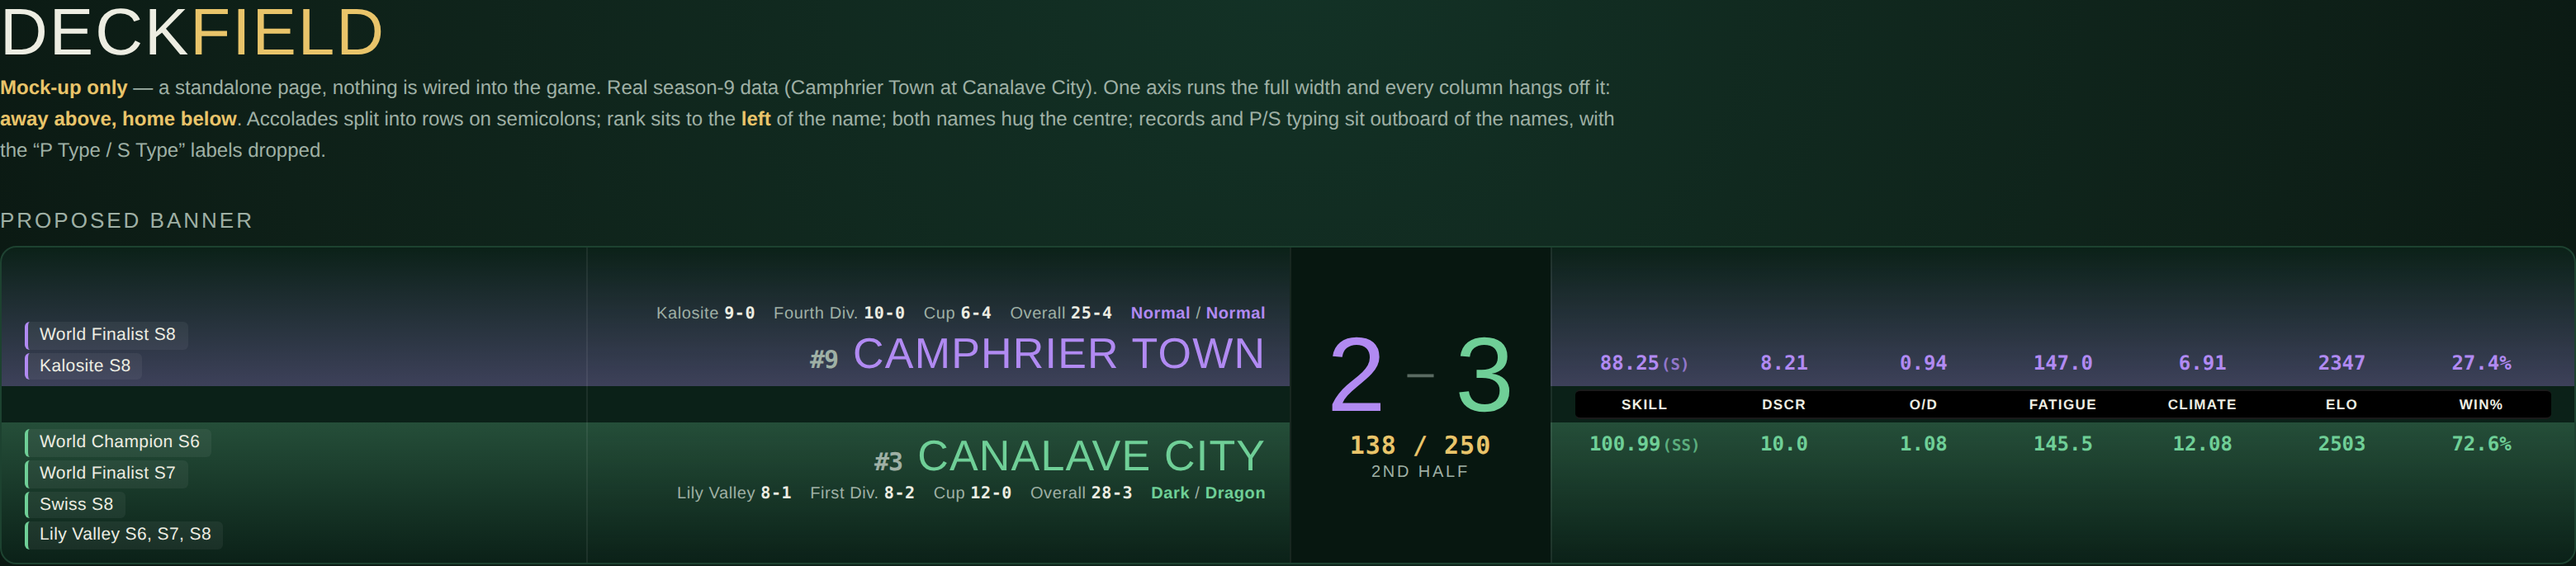
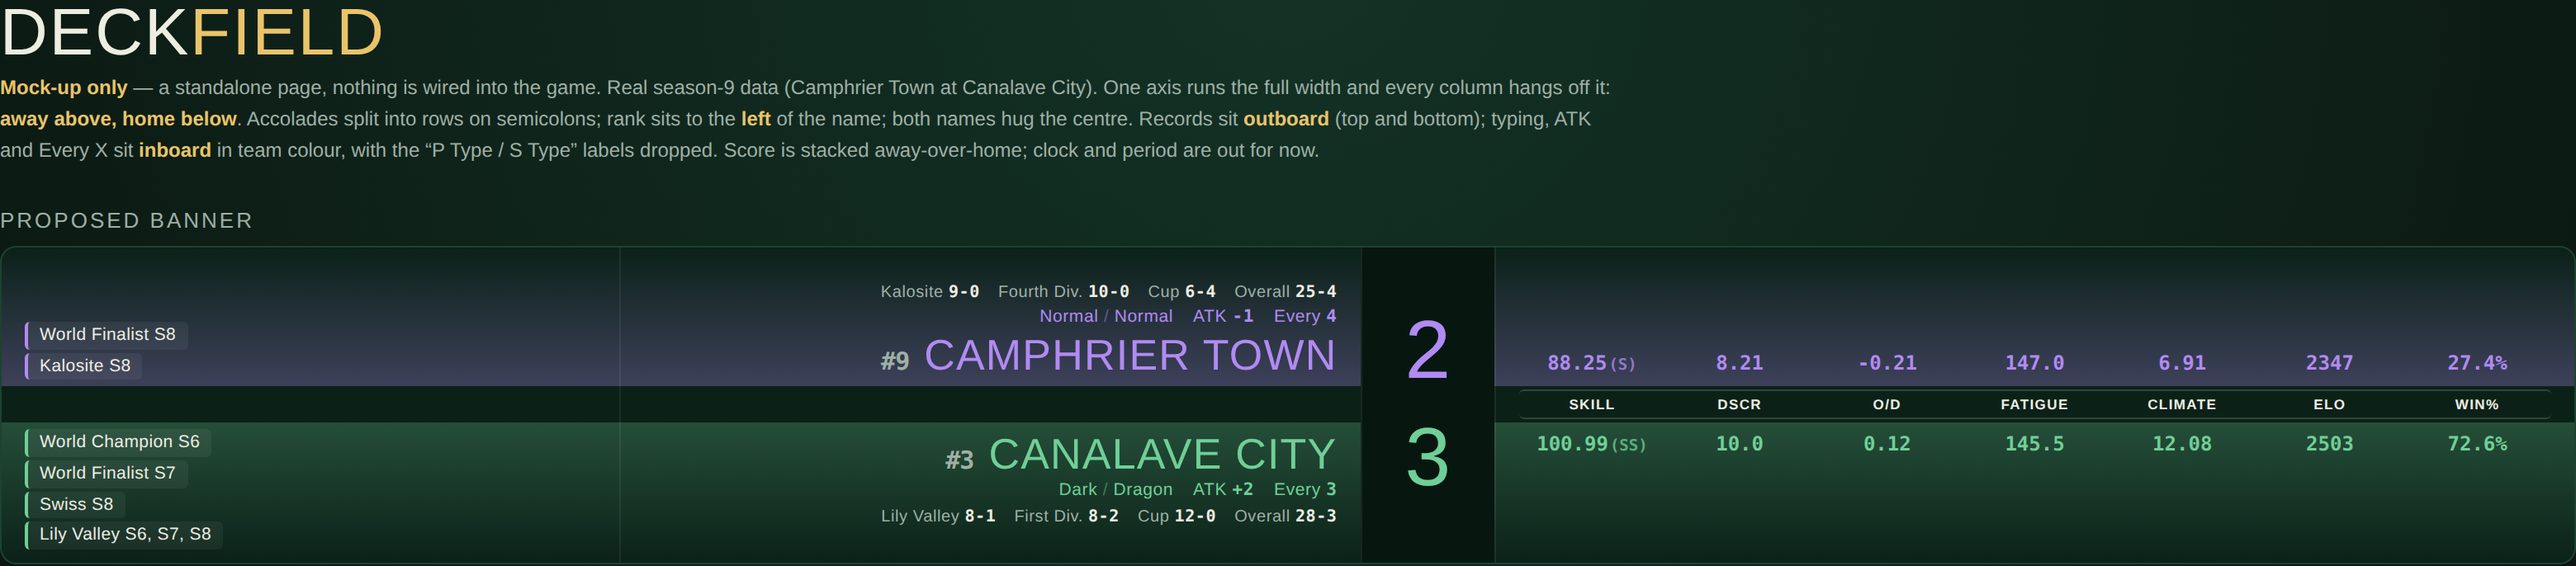
Scoreboard mock-up: recolour the label strip, rebalance the name column
Three revisions to the banner mock-up. Still standalone; nothing in
deckfield.html is touched.

- The stat labels drop the solid black for the middle section's own panel
  colour. The hairlines above and below are kept and strengthened slightly so
  the strip still reads as the axis rather than dissolving into the row.
- The name column now uses its spare room as three bands per half: records
  outboard (top for away, bottom for home), then typing, ATK modifier and
  Every X inboard in the team's own colour, with the names still hugging the
  axis.
- The score stacks away-over-home on the axis like every other column, and
  the clock and period come out for now.

ATK and Every X are derived the way the game derives them rather than
invented: O/D = (own PF - opp PA)/100 gives 0.12 home and -0.21 away from the
real PF/PA, which lands on bands 7 and 4, so ATK +2 / -1 and Every 3 / Every
4. The earlier O/D figures in the mock-up were placeholders and are corrected
to match.

Verified in a browser at 420-1920px: nothing clipped or truncated, axis stays
dead centre, away score sits above it and home below, and the label strip
keeps near-white text on the dark panel.

Claude-Session: https://claude.ai/code/session_0181zYP8HyHr8A6FaG9fZGxz

Changed region(s): [[0.2487, 0.4898, 0.9949, 0.9184], [0.0, 0.1837, 0.6218, 0.2755]]

diff --git a/scoreboard_mockup.html b/scoreboard_mockup.html
@@ -84,7 +84,7 @@
   .acc span{color:var(--chalk);}
   .acc-empty{font-size:10.5px;color:var(--chalk-dim);font-style:italic;opacity:0.5;}
 
-  /* ---------- 2. Records + typing + name ---------- */
+  /* ---------- 2. Records (outboard) / typing+ATK+EveryX (inboard) / name ---------- */
   .id-meta{
     display:flex;flex-wrap:wrap;gap:2px 11px;justify-content:flex-end;
     font-size:10px;color:var(--chalk-dim);letter-spacing:0.3px;line-height:1.5;
@@ -95,7 +95,17 @@
   .cell.away .id-meta .types i{color:var(--away-bright);}
   .cell.home .id-meta .types i{color:var(--home-bright);}
 
-  .id-name{display:flex;align-items:baseline;justify-content:flex-end;gap:9px;margin:3px 0;}
+  /* Second band, between the records and the name: typing, ATK and Every X,
+     all in the team's own colour. */
+  .id-mid{
+    display:flex;flex-wrap:wrap;gap:2px 12px;justify-content:flex-end;
+    font-size:10.5px;line-height:1.5;letter-spacing:0.3px;white-space:nowrap;
+  }
+  .id-mid .g{font-family:'JetBrains Mono',monospace;font-weight:600;}
+  .cell.away .id-mid{color:var(--away-bright);}
+  .cell.home .id-mid{color:var(--home-bright);}
+  .id-mid .sep{opacity:0.45;}
+  .id-name{display:flex;align-items:baseline;justify-content:flex-end;gap:9px;margin:2px 0;}
   .id-rank{
     font-family:'JetBrains Mono',monospace;font-weight:700;font-size:15px;
     color:var(--chalk-dim);letter-spacing:-0.5px;flex:0 0 auto;
@@ -108,28 +118,25 @@
   .cell.away .id-team{color:var(--away-bright);}
   .cell.home .id-team{color:var(--home-bright);}
 
-  /* ---------- 3. Score (spans all three rows) ---------- */
-  .score-col{
-    grid-column:3;grid-row:1 / 4;display:flex;flex-direction:column;
-    align-items:center;justify-content:center;
-    padding:10px 22px;background:rgba(0,0,0,0.30);
+  /* ---------- 3. Score ---------- */
+  /* Away score above the axis, home below, like every other column. Clock and
+     period are out for now, per instruction. */
+  .score-cell{
+    grid-column:3;display:flex;align-items:center;justify-content:center;
+    padding:0 26px;background:rgba(0,0,0,0.30);min-width:0;
   }
-  .score-nums{
-    display:flex;align-items:center;gap:13px;
-    font-family:'Anton',sans-serif;line-height:0.9;font-size:clamp(38px,4.6vw,64px);
+  .score-cell.away{align-items:flex-end;padding-top:8px;}
+  .score-cell.home{align-items:flex-start;padding-bottom:8px;}
+  .score-num{
+    font-family:'Anton',sans-serif;line-height:0.86;
+    font-size:clamp(34px,3.6vw,50px);
   }
-  .score-nums .a{color:var(--away-bright);}
-  .score-nums .h{color:var(--home-bright);}
-  .score-nums .dash{color:var(--chalk-dim);font-size:0.45em;opacity:0.55;}
-  .score-clock{
-    font-family:'JetBrains Mono',monospace;font-size:15px;font-weight:600;
-    color:var(--gold);margin-top:5px;letter-spacing:0.5px;
-  }
-  .score-period{font-size:10px;text-transform:uppercase;letter-spacing:1.4px;color:var(--chalk-dim);margin-top:2px;}
+  .score-cell.away .score-num{color:var(--away-bright);}
+  .score-cell.home .score-num{color:var(--home-bright);}
 
   /* ---------- 4. Stat strip ---------- */
-  /* Seven columns. The labels form the black middle line itself, with the
-     away value directly above and the home value directly below. */
+  /* Seven columns. The labels form the middle line itself, with the away
+     value directly above and the home value directly below. */
   .stats-away,.stats-home,.stats-axis{
     display:grid;grid-template-columns:repeat(7,1fr);text-align:center;
   }
@@ -143,11 +150,13 @@
   .stats-away .stat-v{color:var(--away-bright);}
   .stats-home .stat-v{color:var(--home-bright);}
   .stat-k{
-    background:#000;color:var(--chalk);
+    /* Was solid black; now the middle section's own panel colour, with the
+       hairlines kept so it still reads as the axis rather than dissolving. */
+    background:var(--panel);color:var(--chalk);
     font-size:8.5px;font-weight:700;letter-spacing:0.7px;text-transform:uppercase;
     padding:3px 2px;
-    border-top:1px solid rgba(255,255,255,0.10);
-    border-bottom:1px solid rgba(255,255,255,0.10);
+    border-top:1px solid rgba(255,255,255,0.16);
+    border-bottom:1px solid rgba(255,255,255,0.16);
   }
   .stats-axis{margin:2px 0;}
   .stat-k:first-child{border-radius:3px 0 0 3px;}
@@ -168,8 +177,9 @@
     <b>Mock-up only</b> &mdash; a standalone page, nothing is wired into the game. Real season-9 data
     (Camphrier Town at Canalave City). One axis runs the full width and every column hangs off it:
     <b>away above, home below</b>. Accolades split into rows on semicolons; rank sits to the
-    <b>left</b> of the name; both names hug the centre; records and P/S typing sit outboard of the
-    names, with the &ldquo;P Type / S Type&rdquo; labels dropped.
+    <b>left</b> of the name; both names hug the centre. Records sit <b>outboard</b> (top and bottom);
+    typing, ATK and Every X sit <b>inboard</b> in team colour, with the &ldquo;P Type / S Type&rdquo;
+    labels dropped. Score is stacked away-over-home; clock and period are out for now.
   </p>
 
   <div class="section-label">Proposed banner</div>
@@ -182,22 +192,18 @@
     <!-- 2 ─ RECORDS + NAME -->
     <div class="cell away colsep c2 r1">
       <div class="id-meta" id="metaAway"></div>
+      <div class="id-mid" id="midAway"></div>
       <div class="id-name"><span class="id-rank" id="rankAway"></span><span class="id-team" id="nameAway"></span></div>
     </div>
-    <!-- 3 ─ SCORE (spans all three rows) -->
-    <div class="score-col colsep">
-      <div class="score-nums">
-        <span class="a" id="scoreAway">2</span><span class="dash">&ndash;</span><span class="h" id="scoreHome">3</span>
-      </div>
-      <div class="score-clock" id="clock">138 / 250</div>
-      <div class="score-period" id="period">2nd Half</div>
-    </div>
+    <!-- 3 ─ SCORE, away half -->
+    <div class="score-cell away colsep r1"><div class="score-num" id="scoreAway">2</div></div>
     <!-- 4 ─ STATS, away half -->
     <div class="cell away colsep stat-pad c4 r1"><div class="stats-away" id="statsAway"></div></div>
 
     <!-- ── the axis row ── -->
     <div class="axis-cell c1"></div>
     <div class="axis-cell colsep c2"></div>
+    <div class="axis-cell colsep c3 score-cell"></div>
     <div class="axis-cell colsep stat-pad c4"><div class="stats-axis" id="statsAxis"></div></div>
 
     <!-- 1 ─ ACCOLADES -->
@@ -205,8 +211,11 @@
     <!-- 2 ─ RECORDS + NAME -->
     <div class="cell home colsep c2 r3">
       <div class="id-name"><span class="id-rank" id="rankHome"></span><span class="id-team" id="nameHome"></span></div>
+      <div class="id-mid" id="midHome"></div>
       <div class="id-meta" id="metaHome"></div>
     </div>
+    <!-- 3 ─ SCORE, home half -->
+    <div class="score-cell home colsep r3"><div class="score-num" id="scoreHome">3</div></div>
     <!-- 4 ─ STATS, home half -->
     <div class="cell home colsep stat-pad c4 r3"><div class="stats-home" id="statsHome"></div></div>
 
@@ -222,16 +231,16 @@
     accolades:'World Finalist S8; Kalosite S8',
     regionRecord:'9-0', leagueRecord:'10-0', cupRecord:'6-4', overallRecord:'25-4',
     primary:'Normal', secondary:'Normal',
-    skill:'88.25', grade:'S', dscr:'8.21', offdef:'0.94', fatigue:'147.0', climate:'6.91',
-    elo:'2347', winPct:'27.4%'
+    skill:'88.25', grade:'S', dscr:'8.21', offdef:'-0.21', fatigue:'147.0', climate:'6.91',
+    elo:'2347', winPct:'27.4%', atk:'-1', everyX:'4'
   };
   const HOME = {
     name:'Canalave City', rank:3, region:'Lily Valley', division:'First Div.',
     accolades:'World Champion S6; World Finalist S7; Swiss S8; Lily Valley S6, S7, S8',
     regionRecord:'8-1', leagueRecord:'8-2', cupRecord:'12-0', overallRecord:'28-3',
     primary:'Dark', secondary:'Dragon',
-    skill:'100.99', grade:'SS', dscr:'10.0', offdef:'1.08', fatigue:'145.5', climate:'12.08',
-    elo:'2503', winPct:'72.6%'
+    skill:'100.99', grade:'SS', dscr:'10.0', offdef:'0.12', fatigue:'145.5', climate:'12.08',
+    elo:'2503', winPct:'72.6%', atk:'+2', everyX:'3'
   };
 
   const esc = s => String(s).replace(/[&<>"]/g, c => ({'&':'&amp;','<':'&lt;','>':'&gt;','"':'&quot;'}[c]));
@@ -254,7 +263,15 @@
       `<span class="m">${esc(t.division)} <b>${esc(t.leagueRecord)}</b></span>`,
       `<span class="m">Cup <b>${esc(t.cupRecord)}</b></span>`,
       `<span class="m">Overall <b>${esc(t.overallRecord)}</b></span>`,
-      `<span class="m types"><i>${esc(t.primary)}</i> / <i>${esc(t.secondary)}</i></span>`,
+    ].join('');
+  }
+
+  // The inboard band: typing, ATK modifier and Every X, all in team colour.
+  function renderMid(elId, t){
+    document.getElementById(elId).innerHTML = [
+      `<span>${esc(t.primary)} <span class="sep">/</span> ${esc(t.secondary)}</span>`,
+      `<span>ATK <span class="g">${esc(t.atk)}</span></span>`,
+      `<span>Every <span class="g">${esc(t.everyX)}</span></span>`,
     ].join('');
   }
 
@@ -273,6 +290,8 @@
   renderAccolades('accHome', HOME);
   renderMeta('metaAway', AWAY);
   renderMeta('metaHome', HOME);
+  renderMid('midAway', AWAY);
+  renderMid('midHome', HOME);
   document.getElementById('rankAway').textContent = '#' + AWAY.rank;
   document.getElementById('rankHome').textContent = '#' + HOME.rank;
   document.getElementById('nameAway').textContent = AWAY.name;
